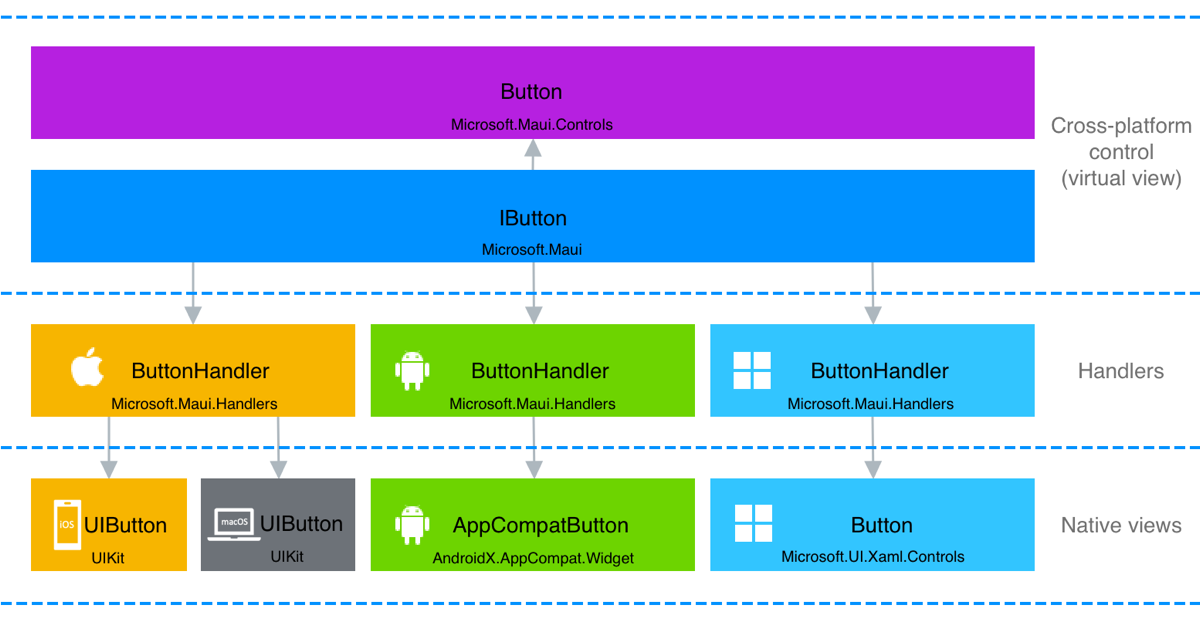
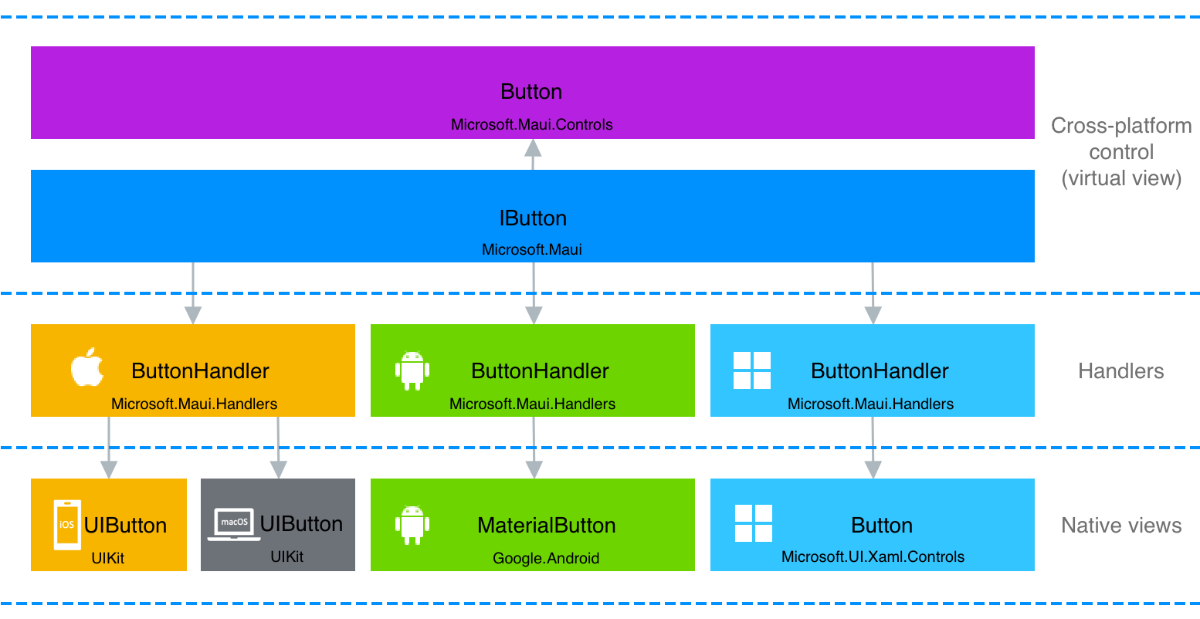
MaterialButton replaces AppCompatButton (#2727)

Changed region(s): [[0.3392, 0.8901, 0.5242, 0.9208], [0.37, 0.8288, 0.5242, 0.8595], [0.0925, 0.6446, 0.1542, 0.6753]]

diff --git a/docs/user-interface/handlers/index.md b/docs/user-interface/handlers/index.md
@@ -1,12 +1,12 @@
 ---
 title: ".NET MAUI handlers"
 description: "Learn about .NET MAUI handlers, which map cross-platform controls to performant native controls on each platform."
-ms.date: 01/17/2024
+ms.date: 01/13/2025
 ---
 
 # Handlers
 
-.NET Multi-platform App UI (.NET MAUI) provides a collection of cross-platform controls that can be used to display data, initiate actions, indicate activity, display collections, pick data, and more. Each control has an interface representation that abstracts the control. Cross-platform controls that implement these interfaces are known as *virtual views*. *Handlers* map these virtual views to controls on each platform, which are known as *native views*. Handlers are also responsible for instantiating the underlying native view, and mapping the cross-platform control API to the native view API. For example, on iOS a handler maps a .NET MAUI <xref:Microsoft.Maui.Controls.Button> to an iOS `UIButton`. On Android, the <xref:Microsoft.Maui.Controls.Button> is mapped to an `AppCompatButton`:
+.NET Multi-platform App UI (.NET MAUI) provides a collection of cross-platform controls that can be used to display data, initiate actions, indicate activity, display collections, pick data, and more. Each control has an interface representation that abstracts the control. Cross-platform controls that implement these interfaces are known as *virtual views*. *Handlers* map these virtual views to controls on each platform, which are known as *native views*. Handlers are also responsible for instantiating the underlying native view, and mapping the cross-platform control API to the native view API. For example, on iOS a handler maps a .NET MAUI <xref:Microsoft.Maui.Controls.Button> to an iOS `UIButton`. On Android, the <xref:Microsoft.Maui.Controls.Button> is mapped to a `MaterialButton`:
 
 :::image type="content" source="media/overview/button-handler.png" alt-text="Button handler architecture." border="false":::
 
